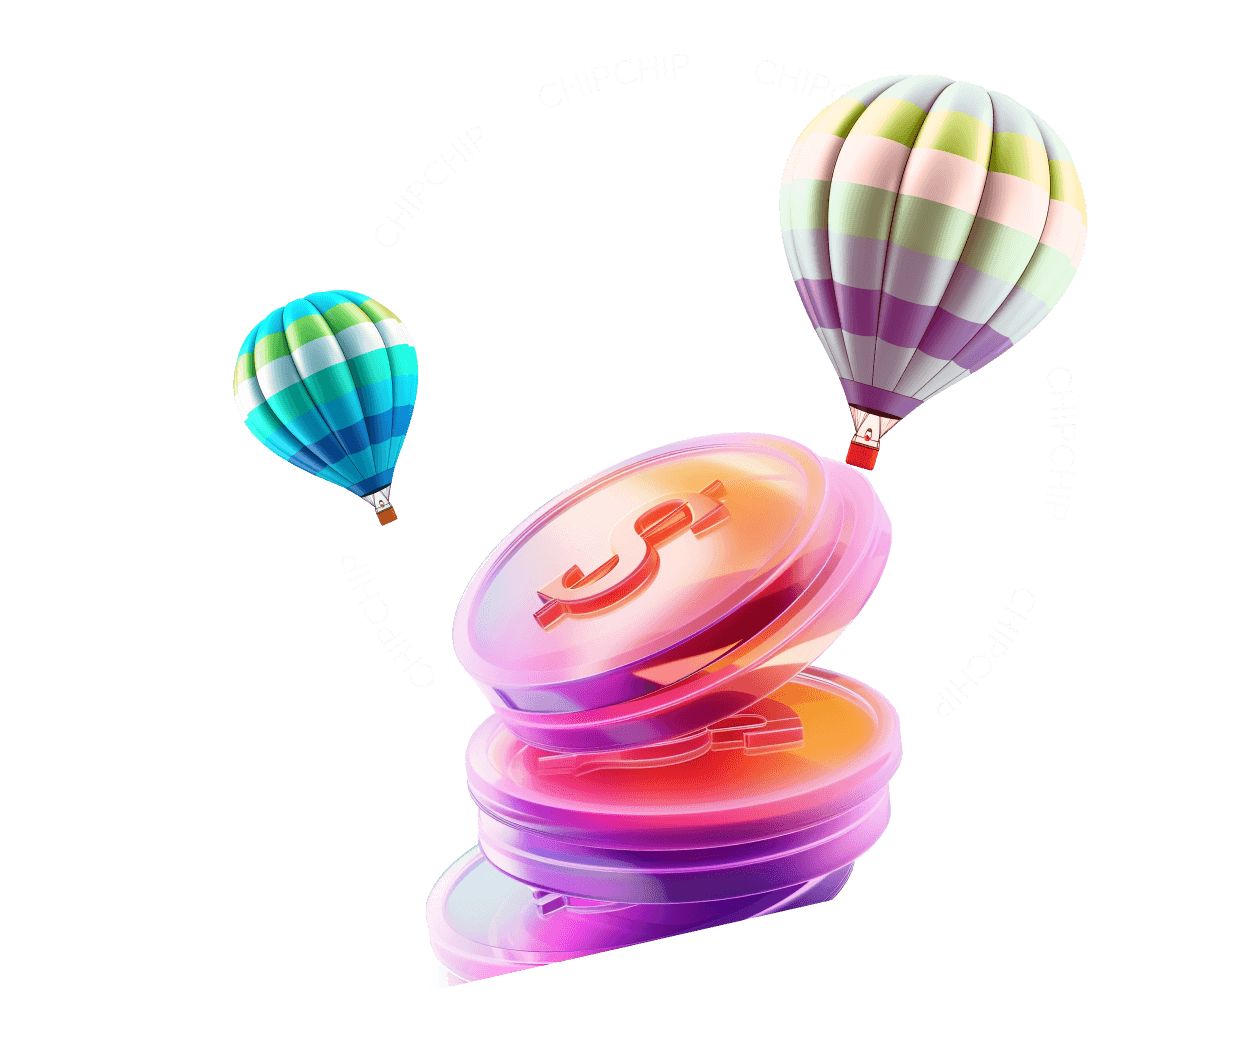
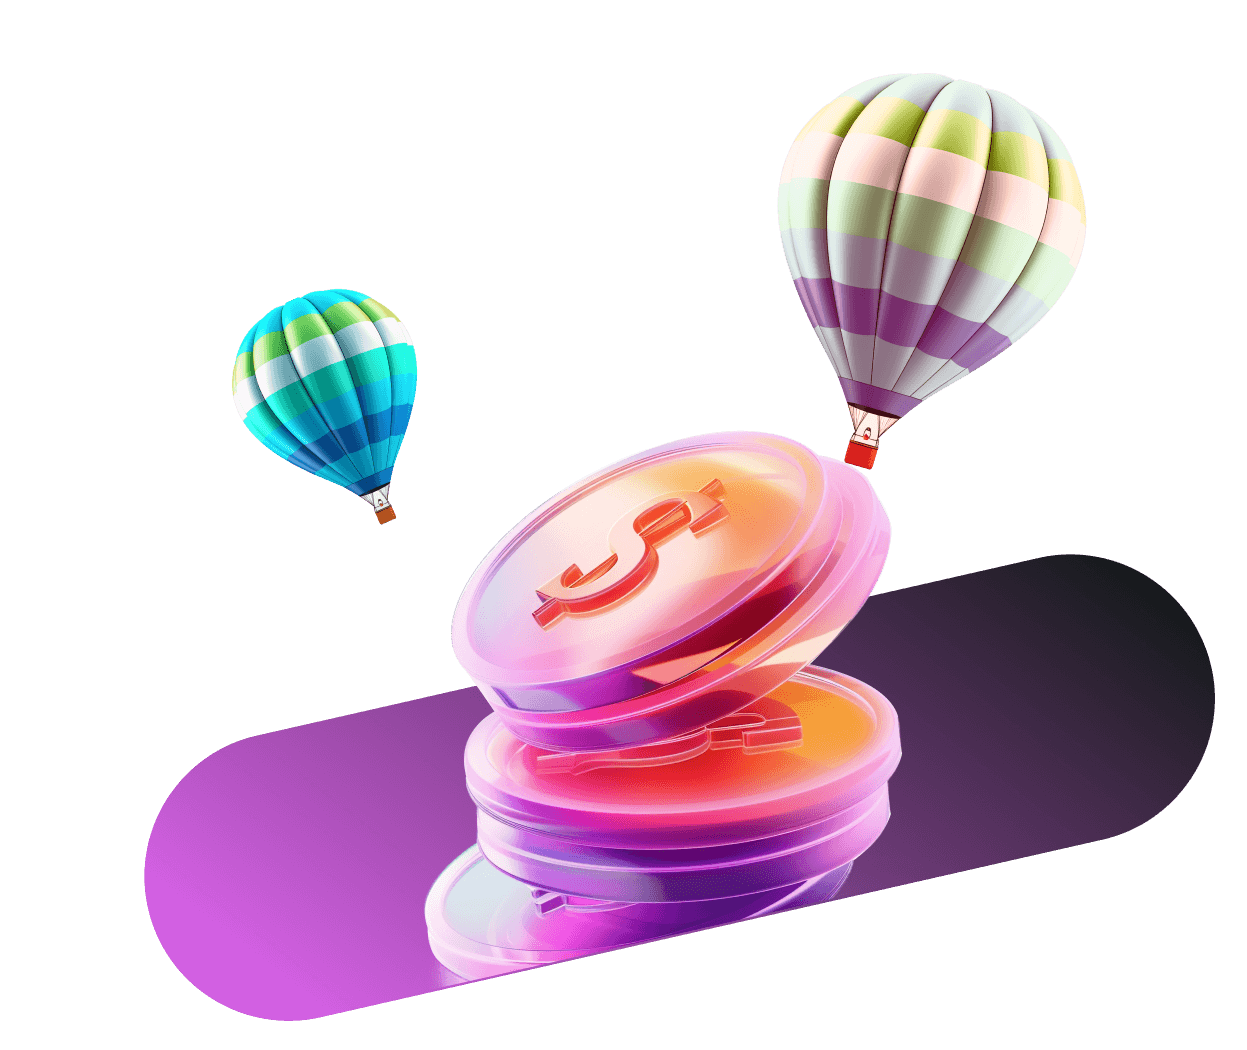
fix:1

diff --git a/src/pages/airdrop/index.jsx b/src/pages/airdrop/index.jsx
@@ -392,7 +392,7 @@ font-weight: 500;
 .right {
 pointer-events: none;
 width: 623px;
-height: 523px;
+height: 525px;
 }
 }
 `
